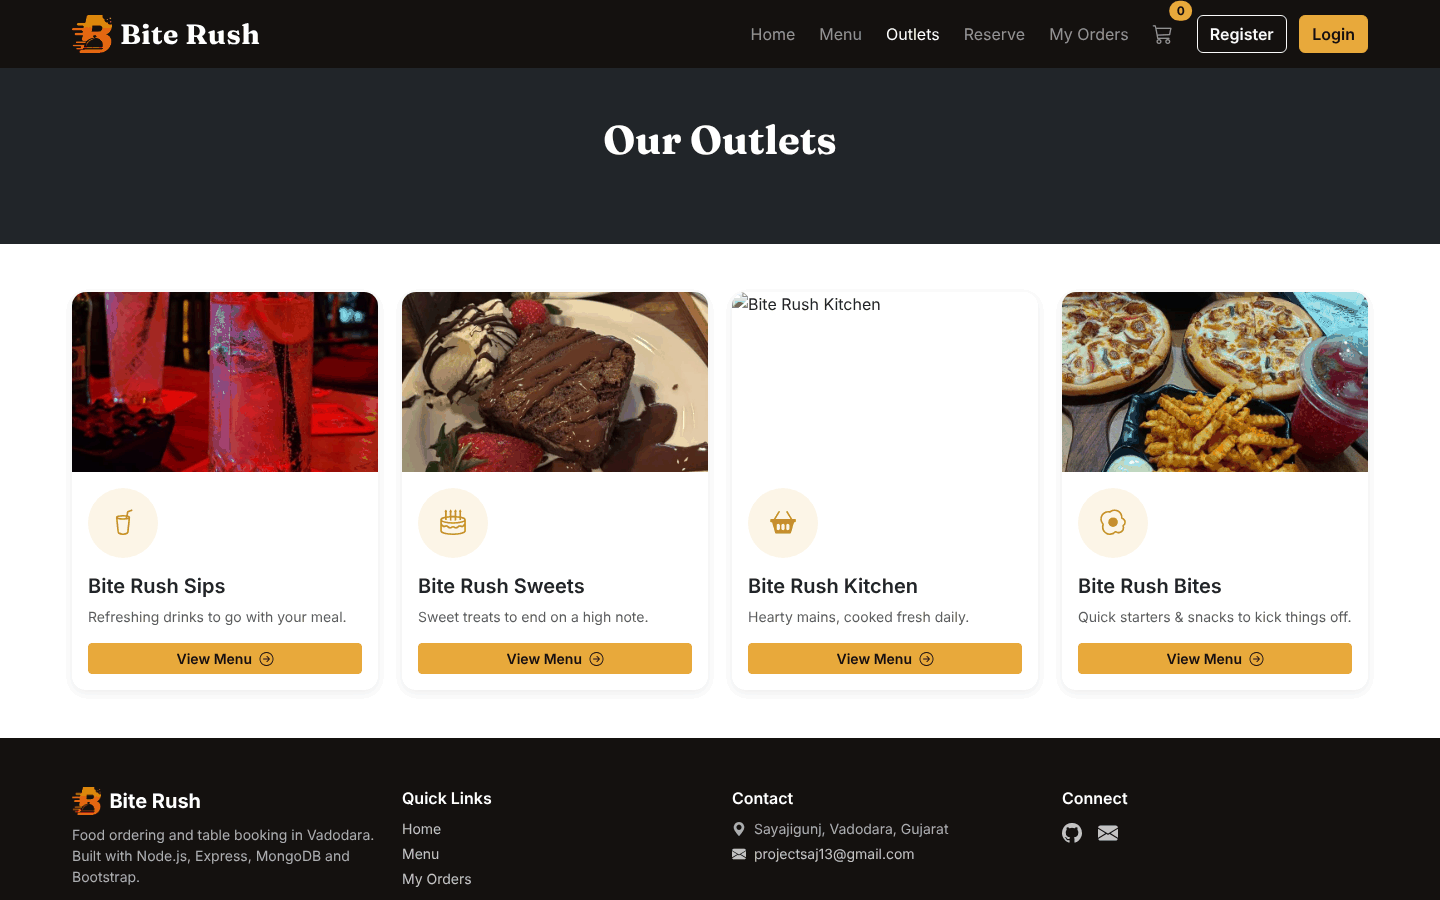
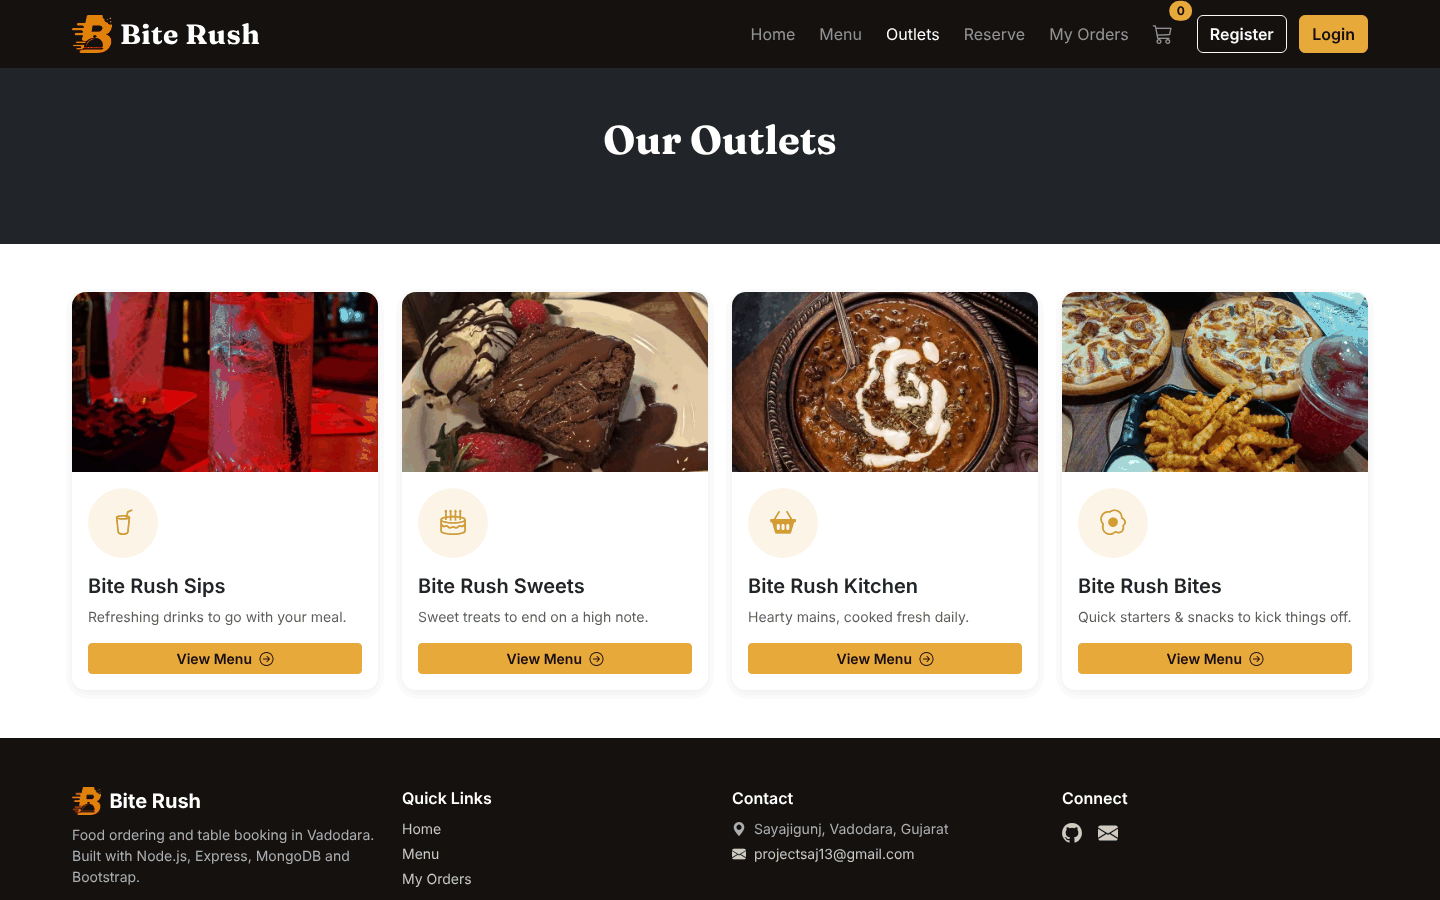
fix: serve Kitchen outlet photo locally instead of a remote link, retake outlets screenshot
Claude-Session: https://claude.ai/code/session_0124sP51pALx9UjFoonVQGHp

diff --git a/frontend/js/outlet-data.js b/frontend/js/outlet-data.js
@@ -14,7 +14,7 @@ const OUTLET_INFO = {
     outletName: 'Bite Rush Kitchen',
     tagline: 'Hearty mains, cooked fresh daily.',
     icon: 'bi-basket2-fill',
-    image: 'https://images.unsplash.com/photo-1753727471014-efe38840c7c7?auto=format&fit=crop&w=800&q=80'
+    image: 'images/outlets/kitchen.jpg'
   },
   beverages: {
     outletName: 'Bite Rush Sips',
